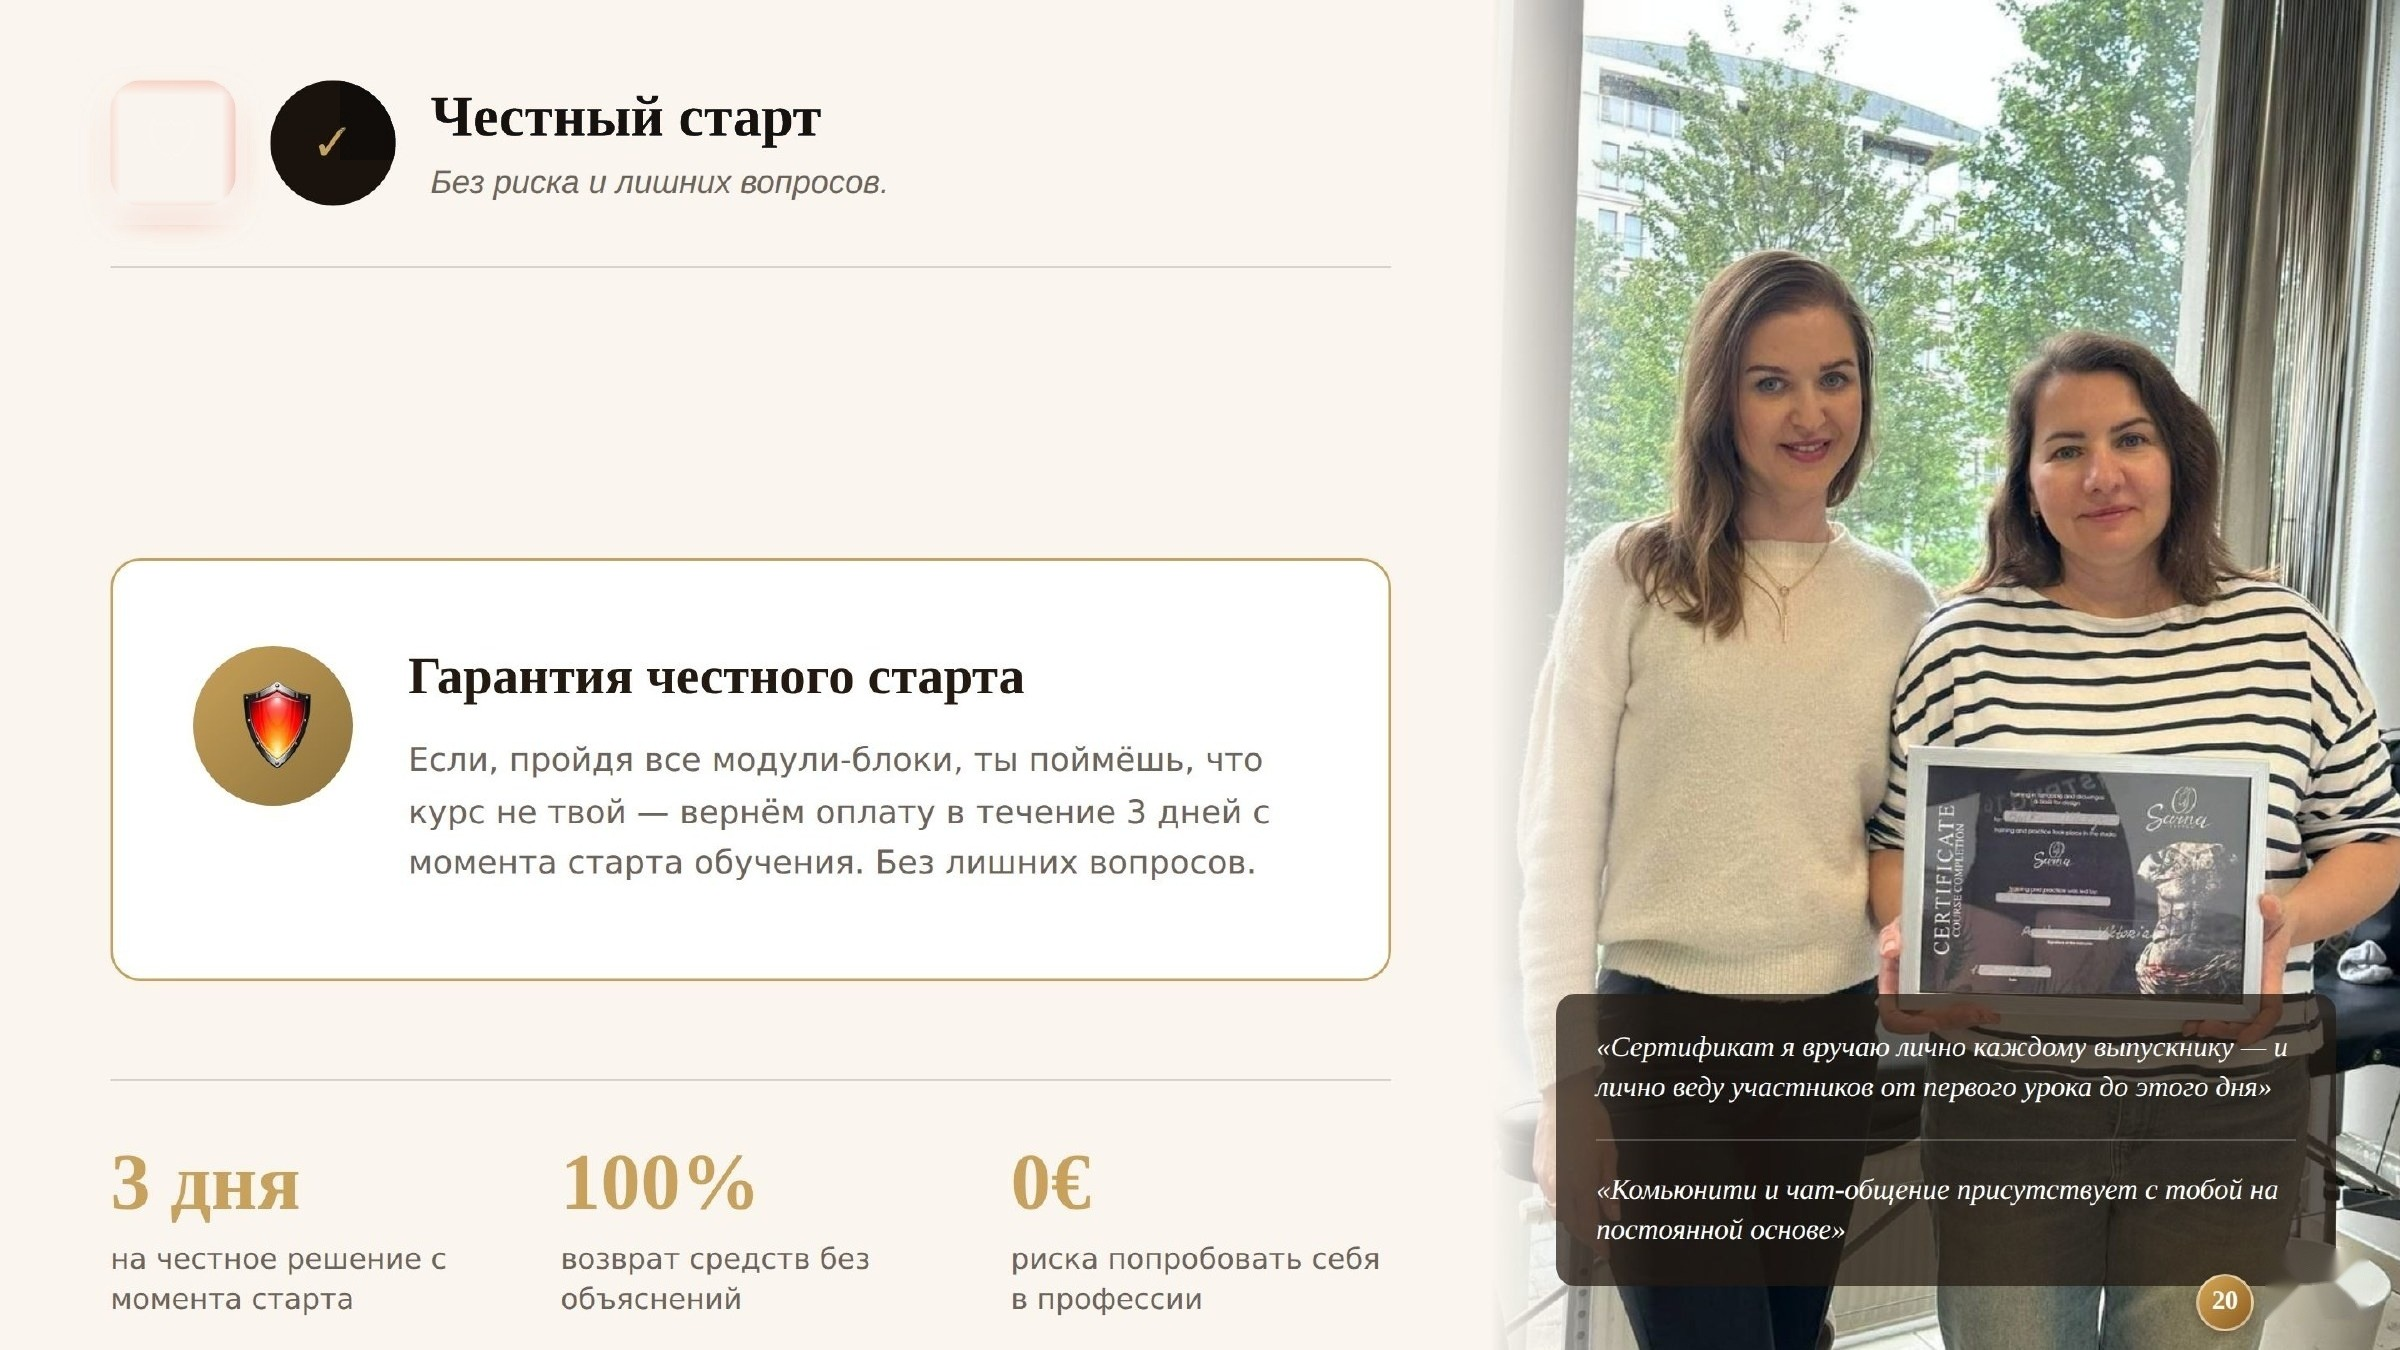
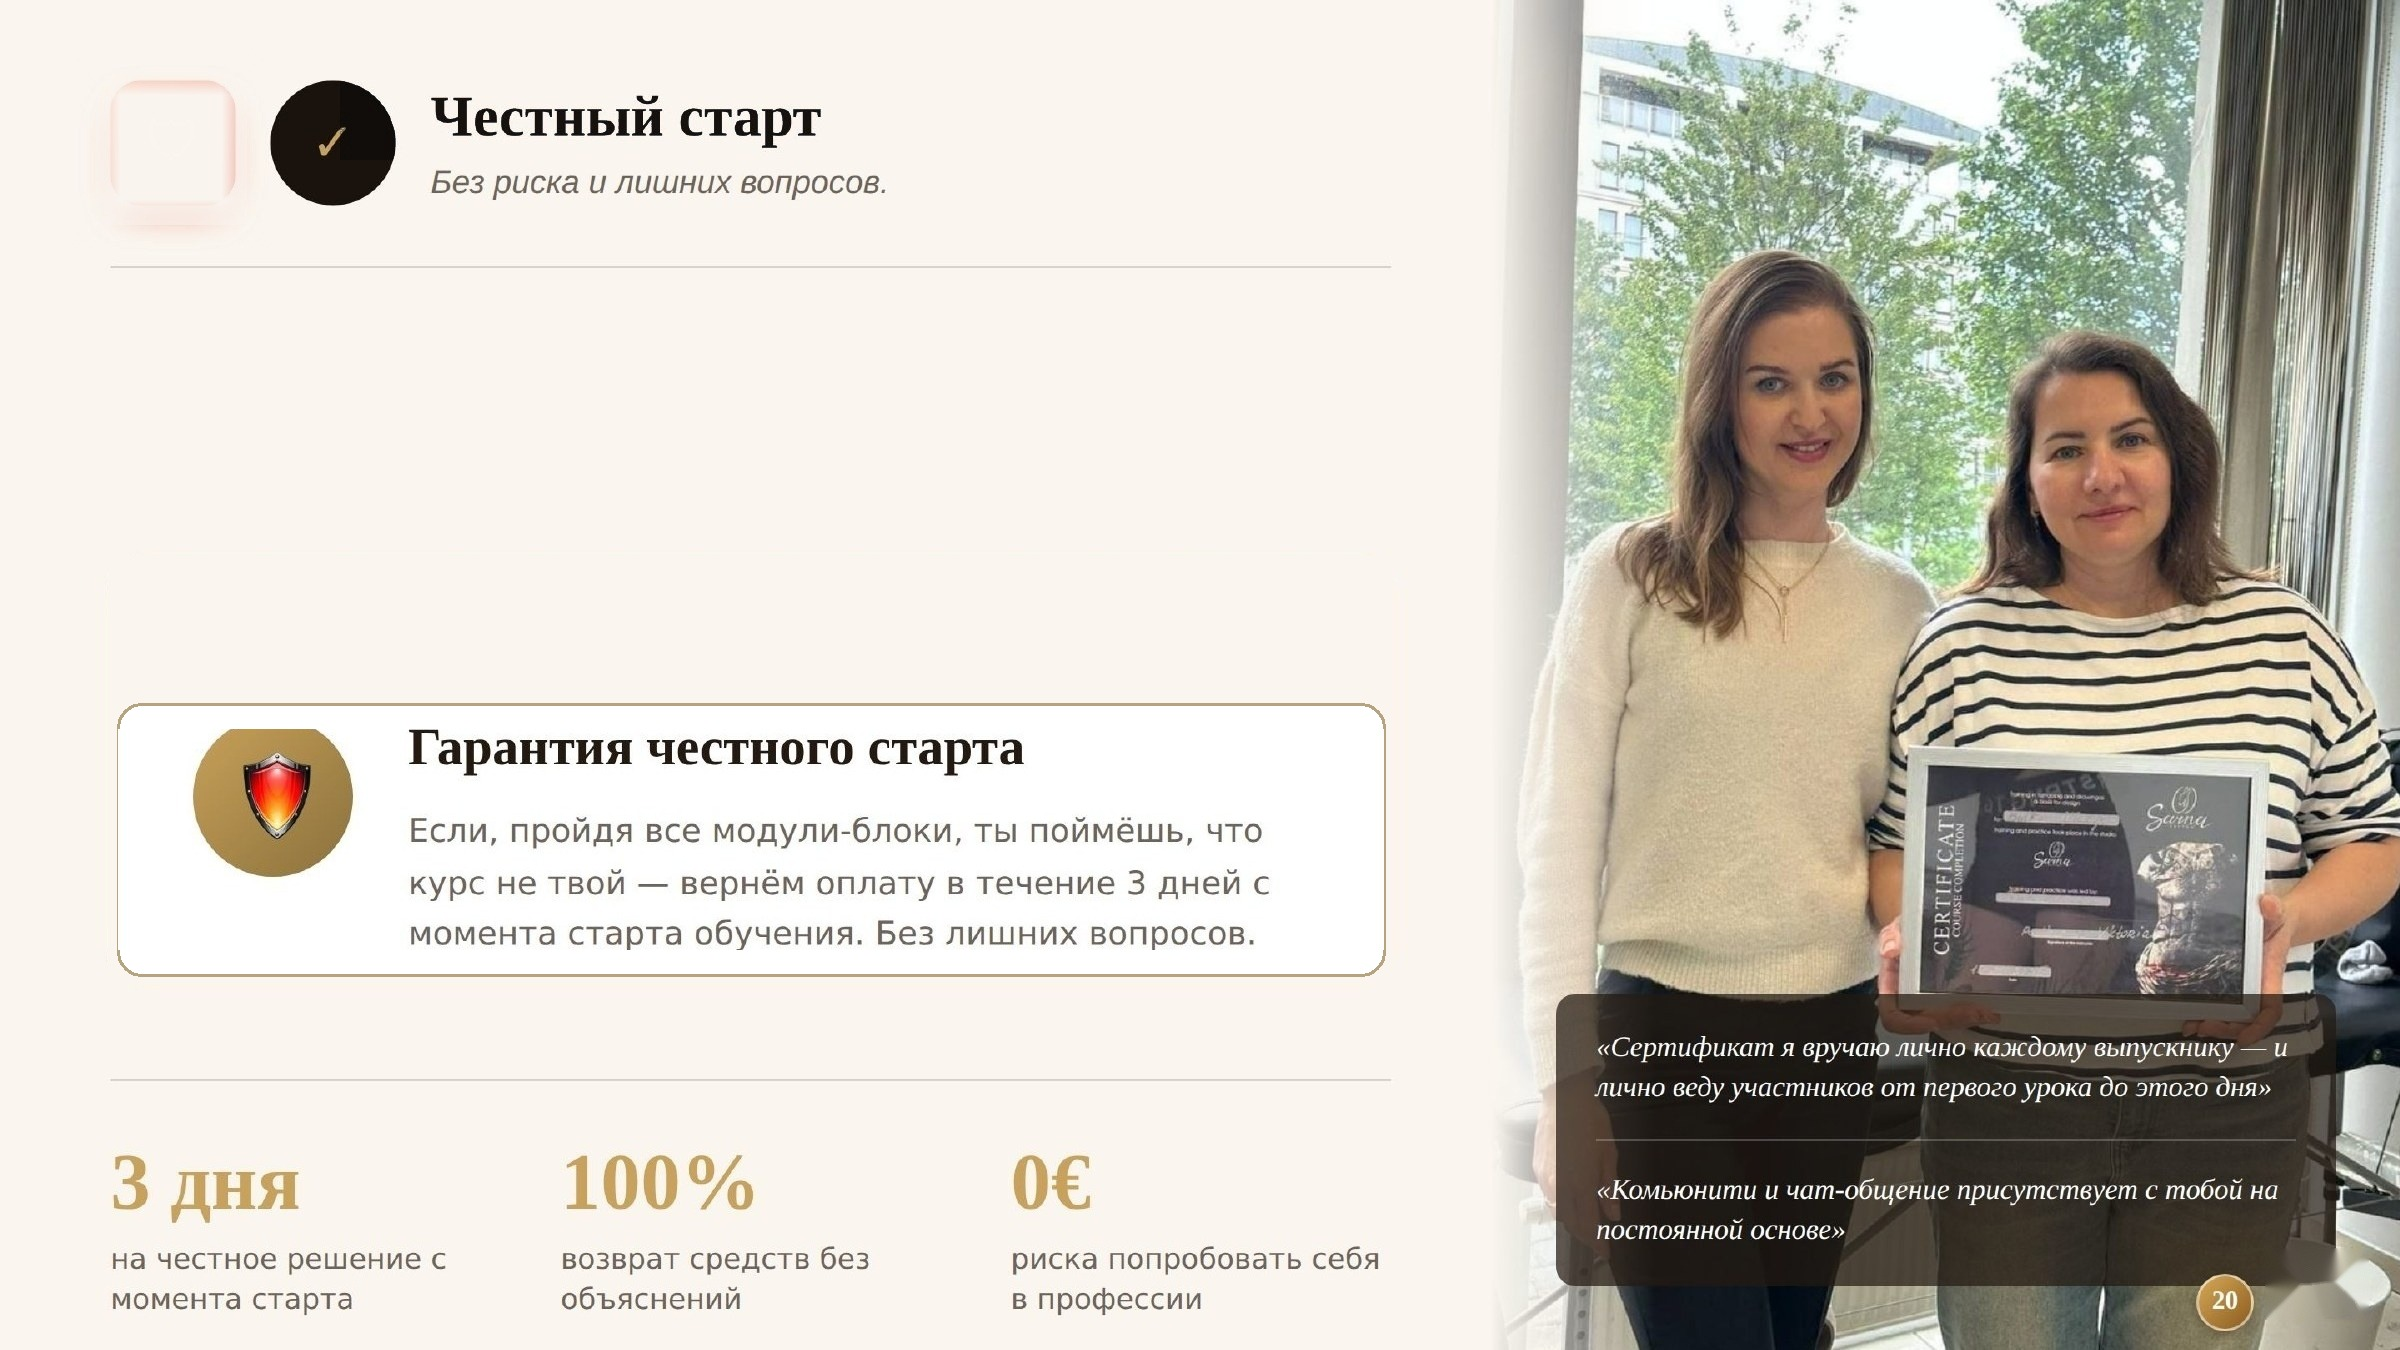
Rebalance whitespace between the two slide-21 cards
The guarantee card had a lot of empty top/bottom padding around its
short content, while the "Честный ответ" card above it was cramped.
Shrunk the guarantee card to fit its content snugly (redrew its
rounded border, kept icon/heading/paragraph pixel-identical) and gave
the freed vertical space to the box above, restoring comfortable
line-height and padding there too.

Claude-Session: https://claude.ai/code/session_01CnfRud7UFKfhrBcKWTmy69

Changed region(s): [[0.0625, 0.4667, 0.5625, 0.7467]]

diff --git a/docs/index.html b/docs/index.html
@@ -217,15 +217,15 @@
      to make room (photo column untouched), and this real HTML box fills
      the freed space. */
   .ov-s21-honest{
-    left:4.92%; top:20.4%; width:52.75%; height:20.1%; box-sizing:border-box;
+    left:4.92%; top:21.8%; width:52.75%; height:28.3%; box-sizing:border-box;
     display:flex; flex-direction:column; justify-content:center;
     background:#fff; border:1px solid #c9a15a; border-radius:1.4cqw;
-    padding:0.15cqw 2.2cqw;
+    padding:1.1cqw 2.2cqw;
   }
   .ov-s21-honest .eyebrow{
     display:flex; align-items:center; gap:0.6cqw;
     font-family:'Playfair Display',serif; font-style:italic; font-weight:700;
-    font-size:1.2cqw; color:#a9662f; margin-bottom:0.3cqw; line-height:1;
+    font-size:1.2cqw; color:#a9662f; margin-bottom:0.55cqw; line-height:1;
   }
   .ov-s21-honest .eyebrow::before{
     content:""; width:0.2cqw; align-self:stretch; min-height:1.2cqw;
@@ -233,15 +233,16 @@
   }
   /* Heading/paragraph font-size, weight and color measured directly off
      the "Гарантия честного старта" card's baked pixels and matched 1:1;
-     only the line-height/margins are tighter, since this card has less
-     vertical room to work with. */
+     that card was then shrunk to remove its own excess whitespace, and
+     the freed vertical space was given to this box, so its line-height
+     and padding can now match the same comfortable spacing too. */
   .ov-s21-honest h3{
     font-family:'Playfair Display',serif; font-weight:800; font-size:2.25cqw;
-    line-height:1.05; color:#21180f; margin:0 0 0.3cqw;
+    line-height:1.15; color:#21180f; margin:0 0 0.9cqw;
   }
   .ov-s21-honest p{
     font-family:'Nunito',sans-serif; font-weight:400; font-size:1.3cqw;
-    line-height:1.1; color:#666664; margin:0;
+    line-height:1.32; color:#666664; margin:0;
   }
 
   /* ---- New slide 3: "Формат поддержки" ------------------------------
@@ -379,7 +380,7 @@
   </div>
   <div class="slide-wrap"><img class="slide-img" src="assets/slides/slide-20.jpg?v=7" alt="Слайд 20 — почему именно это обучение"><div class="ov sq-icon-hdr" style="left:3.958%;top:5.185%;width:6.333%;height:11.481%;"><img src="assets/icons/scales.png?v=3" alt=""></div><div class="ov ov-badge on-light" style="left:91.29%;"><span class="num">20</span><span class="den">/23</span></div></div>
   <div class="slide-wrap">
-    <img class="slide-img" src="assets/slides/slide-21.jpg?v=9" alt="Слайд 21 — честный старт">
+    <img class="slide-img" src="assets/slides/slide-21.jpg?v=10" alt="Слайд 21 — честный старт">
     <div class="ov sq-icon-hdr" style="left:3.958%;top:5.185%;width:6.333%;height:11.481%;"><img src="assets/icons/shield.png?v=3" alt=""></div>
     <div class="ov ov-s21-honest">
       <div class="eyebrow">Честный ответ</div>
